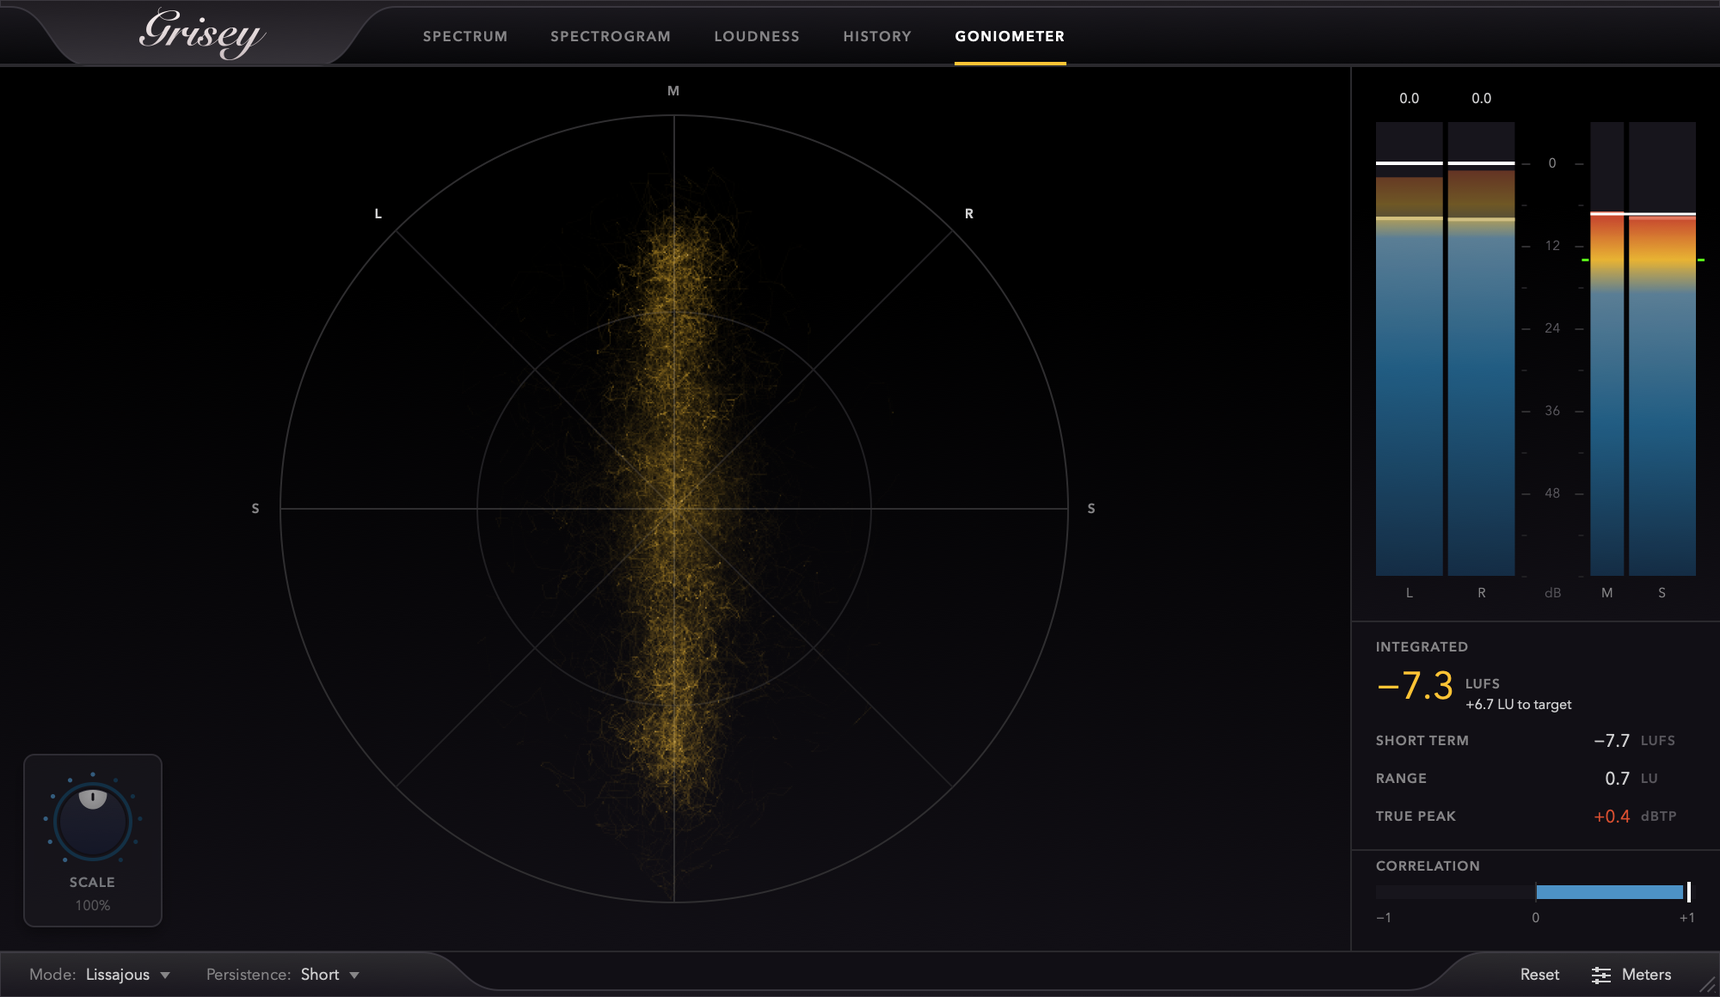
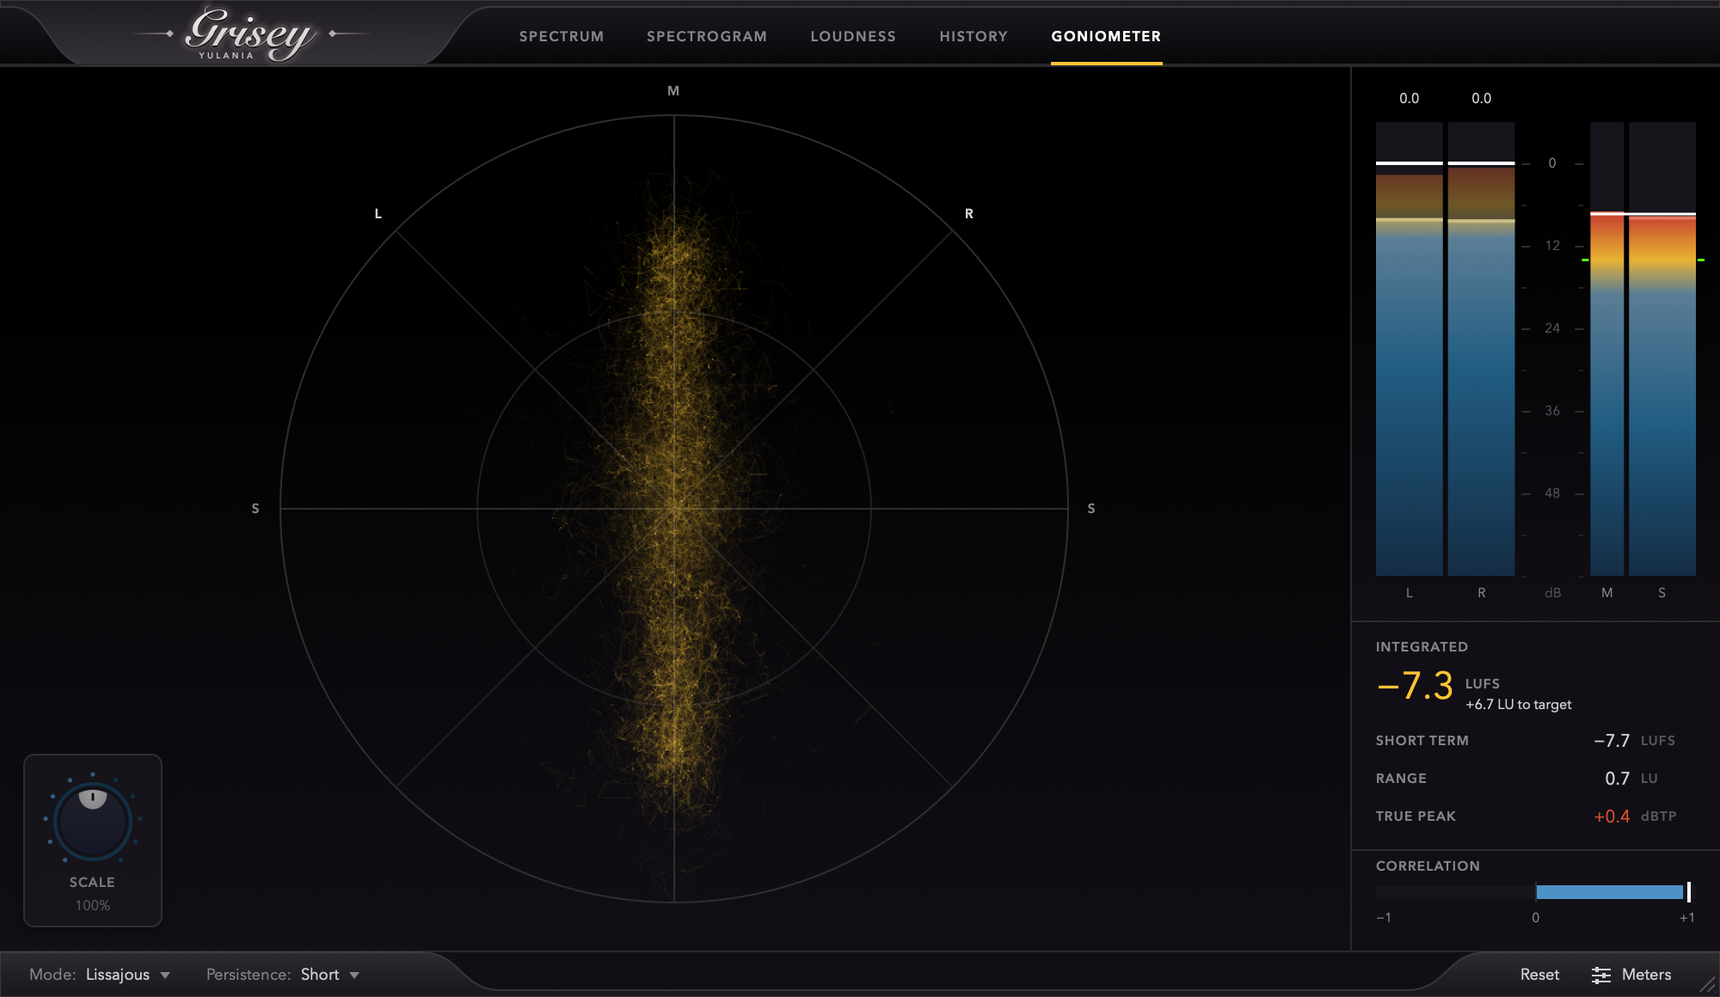
Finish the name as one is on the fallboard of a piano
The name stood alone on a wide, flat tab, and looked empty. It is now set into
the surface, with a soft light around it and a shadow beneath it, has a
flourish on either side, a hairline that fades outward from a small diamond,
and has the maker's name, YULANIA, beneath it in small capitals.

The maker's name does not make the header any taller. The tail of the y comes
below the line that the letters stand on, but only on the right, so there is
room beneath that line on the left. The tool that writes the outline finds the
line and the tail in it, and writes the room into Wordmark.h with the other
measures of the finish, so the plugin and the SVG of the README are drawn from
the same numbers. The tab for the name is wider, and the tabs of the views
still fit at the smallest size of the window.

Changed region(s): [[0.093, 0.0, 0.527, 0.0621], [0.558, 0.031, 0.682, 0.0931], [0.806, 0.2172, 0.868, 0.2483]]

diff --git a/Tests/Snapshot.cpp b/Tests/Snapshot.cpp
@@ -96,32 +96,13 @@ namespace
 
 namespace
 {
-    // Writes the name as outlines, so that it looks the same on a computer that does not have the typeface:
-    // an SVG for the README, and the same outline as a header for the plugin.
-    //   GriseySnapshot docs/images/wordmark.svg wordmark "Snell Roundhand" Bold Source/UI/Wordmark.h
-    bool writeWordmark(const juce::File& svgFile, const juce::String& typeface, const juce::String& style, const juce::File& headerFile)
+    // The data of an SVG path for a JUCE path
+    juce::String toSvgData(const juce::Path& path)
     {
-        if (! juce::Font::findAllTypefaceNames().contains(typeface))
-        {
-            std::cout << "This computer does not have " << typeface << std::endl;
-            return false;
-        }
-
-        // Large, so that two decimal places are plenty
-        const juce::Font font(juce::FontOptions(typeface, 200.f, juce::Font::plain).withStyle(style));
-        juce::GlyphArrangement glyphs;
-        glyphs.addLineOfText(font, "Grisey", 0.f, 0.f);
-
-        juce::Path outline;
-        glyphs.createPath(outline);
-
-        const auto bounds = outline.getBounds();
-        outline.applyTransform(juce::AffineTransform::translation(-bounds.getX(), -bounds.getY()));
-
         auto number = [](float value) { return juce::String(value, 2).trimCharactersAtEnd("0").trimCharactersAtEnd("."); };
 
         juce::String data;
-        juce::Path::Iterator segment(outline);
+        juce::Path::Iterator segment(path);
         while (segment.next())
         {
             switch (segment.elementType)
@@ -135,39 +116,93 @@ namespace
             }
         }
 
-        const auto width = number(bounds.getWidth()), height = number(bounds.getHeight());
+        return data;
+    }
 
-        juce::String svg;
-        // The name is silver, so it stands on a dark plate, or it could not be seen on a white page
-        const float margin = 70.f;
-        const auto plateWidth = number(bounds.getWidth() + 2.f * margin), plateHeight = number(bounds.getHeight() + 2.f * margin);
+    // Writes the name as outlines, so that it looks the same on a computer that does not have the typeface:
+    // the outline and the measures of its finish as a header for the plugin, and the whole of it, finished
+    // as the plugin draws it, as an SVG for the README.
+    //   GriseySnapshot docs/images/wordmark.svg wordmark "Snell Roundhand" Bold Source/UI/Wordmark.h
+    bool writeWordmark(const juce::File& svgFile, const juce::String& typeface, const juce::String& style, const juce::File& headerFile)
+    {
+        if (! juce::Font::findAllTypefaceNames().contains(typeface))
+        {
+            std::cout << "This computer does not have " << typeface << std::endl;
+            return false;
+        }
 
-        svg << "<svg xmlns=\"http://www.w3.org/2000/svg\" viewBox=\"0 0 " << plateWidth << " " << plateHeight << "\" role=\"img\" aria-label=\"Grisey\">\n"
-            << "  <defs>\n"
-            << "    <linearGradient id=\"silver\" x1=\"0\" y1=\"0\" x2=\"0\" y2=\"1\">\n"
-            << "      <stop offset=\"0\" stop-color=\"#fbf3f3\"/>\n"
-            << "      <stop offset=\"1\" stop-color=\"#c9bdc0\"/>\n"
-            << "    </linearGradient>\n"
-            << "    <linearGradient id=\"plate\" x1=\"0\" y1=\"0\" x2=\"0\" y2=\"1\">\n"
-            << "      <stop offset=\"0\" stop-color=\"#201d22\"/>\n"
-            << "      <stop offset=\"1\" stop-color=\"#353238\"/>\n"
-            << "    </linearGradient>\n"
-            << "  </defs>\n"
-            << "  <rect width=\"" << plateWidth << "\" height=\"" << plateHeight << "\" rx=\"44\" fill=\"url(#plate)\"/>\n"
-            << "  <path transform=\"translate(" << number(margin) << " " << number(margin) << ")\" fill=\"url(#silver)\" d=\"" << data << "\"/>\n"
-            << "</svg>\n";
+        // The finish, in points at the height that the name has in the header
+        const juce::String maker("YULANIA");
+        const float heightInHeader = 32.f, ruleGap = 9.f, ruleLength = 24.f, diamondSize = 2.2f;
+        const float makerFontHeight = 6.6f, makerKerning = 0.26f;
 
-        svgFile.replaceWithText(svg, false, false, "\n");
+        // Large, so that two decimal places are plenty
+        const juce::Font font(juce::FontOptions(typeface, 200.f, juce::Font::plain).withStyle(style));
+        juce::GlyphArrangement glyphs;
+        glyphs.addLineOfText(font, "Grisey", 0.f, 0.f);
 
+        juce::Path outline;
+        glyphs.createPath(outline);
+        outline.applyTransform(juce::AffineTransform::translation(-outline.getBounds().getX(), -outline.getBounds().getY()));
+
+        const float width = outline.getBounds().getWidth(), height = outline.getBounds().getHeight();
+
+        // The maker's name goes in the room beneath the line that the letters stand on. That line is the lowest
+        // point of the first half of the name, and the room ends where a tail, like that of the y, comes below it.
+        float baseline = 0.f, tailLeft = width;
+        {
+            juce::PathFlatteningIterator point(outline);
+            std::vector<juce::Point<float>> points;
+            while (point.next())
+                points.push_back({ point.x2, point.y2 });
+
+            for (const auto& p : points)
+                if (p.x < 0.5f * width)
+                    baseline = juce::jmax(baseline, p.y);
+
+            for (const auto& p : points)
+                if (p.y > baseline + 0.05f * height)
+                    tailLeft = juce::jmin(tailLeft, p.x);
+        }
+
+        const float pocketLeft = 0.03f, pocketTop = baseline / height + 0.06f;
+        const float pocketWidth = tailLeft / width - 0.05f, pocketHeight = 1.02f - pocketTop;
+
+        auto number = [](float value) { return juce::String(value, 2).trimCharactersAtEnd("0").trimCharactersAtEnd("."); };
+        const auto data = toSvgData(outline);
+
+        //==============================================================================
         // A string literal has a limit in some compilers, so the outline is written as many short ones
+        // A number as C++ writes a float: with a decimal point, and an f
+        auto literal = [&](float value)
+        {
+            const auto text = number(value);
+            return (text.containsChar('.') ? text : text + ".0") + "f";
+        };
+
         juce::String header;
         header << "#pragma once\n\n"
                << "// The name of the plugin as an outline, so that it is drawn the same on every computer, whether or not\n"
-               << "// it has the typeface. Written by: GriseySnapshot docs/images/wordmark.svg wordmark \"" << typeface << "\" " << style << " Source/UI/Wordmark.h\n"
-               << "// The outline is the data of an SVG path, " << width << " wide and " << height << " high, from the top left.\n"
+               << "// it has the typeface, with the measures of its finish. Written by:\n"
+               << "//   GriseySnapshot docs/images/wordmark.svg wordmark \"" << typeface << "\" " << style << " Source/UI/Wordmark.h\n"
                << "namespace Wordmark\n{\n"
-               << "    inline constexpr float width = " << width << "f;\n"
-               << "    inline constexpr float height = " << height << "f;\n\n"
+               << "    // The outline is the data of an SVG path of this size, from the top left\n"
+               << "    inline constexpr float width = " << literal(width) << ";\n"
+               << "    inline constexpr float height = " << literal(height) << ";\n\n"
+               << "    // The height of the name in the header, and the measures of the flourish on either side of it, in points\n"
+               << "    inline constexpr float heightInHeader = " << literal(heightInHeader) << ";\n"
+               << "    inline constexpr float ruleGap = " << literal(ruleGap) << ";\n"
+               << "    inline constexpr float ruleLength = " << literal(ruleLength) << ";\n"
+               << "    inline constexpr float diamondSize = " << literal(diamondSize) << ";\n\n"
+               << "    // The maker's name, and the room for it beneath the line that the letters stand on, clear of the tail of\n"
+               << "    // the last letter, as proportions of the outline's width and height\n"
+               << "    inline constexpr const char* maker = \"" << maker << "\";\n"
+               << "    inline constexpr float makerFontHeight = " << literal(makerFontHeight) << ";\n"
+               << "    inline constexpr float makerKerning = " << literal(makerKerning) << ";\n"
+               << "    inline constexpr float pocketLeft = " << literal(pocketLeft) << ";\n"
+               << "    inline constexpr float pocketTop = " << literal(pocketTop) << ";\n"
+               << "    inline constexpr float pocketWidth = " << literal(pocketWidth) << ";\n"
+               << "    inline constexpr float pocketHeight = " << literal(pocketHeight) << ";\n\n"
                << "    inline constexpr const char* outline =\n";
 
         for (int start = 0; start < data.length(); start += 110)
@@ -176,7 +211,66 @@ namespace
         header = header.dropLastCharacters(1) + ";\n}\n";
         headerFile.replaceWithText(header, false, false, "\n");
 
-        std::cout << "Saved " << svgFile.getFullPathName() << " and " << headerFile.getFullPathName() << " (" << data.length() << " characters of outline)" << std::endl;
+        //==============================================================================
+        // The SVG is in the units of the outline, so a point of the header is this many of them
+        const float unit = height / heightInHeader;
+        const float marginX = (ruleGap + ruleLength) * unit + 60.f, marginY = 60.f;
+        const float plateWidth = width + 2.f * marginX, plateHeight = height + 2.f * marginY;
+        const float ruleY = marginY + 0.5f * height;
+
+        // The maker's name as an outline too, in the middle of its room
+        juce::GlyphArrangement makerGlyphs;
+        makerGlyphs.addLineOfText(Theme::font(makerFontHeight * unit, true).withExtraKerningFactor(makerKerning), maker, 0.f, 0.f);
+        juce::Path makerOutline;
+        makerGlyphs.createPath(makerOutline);
+
+        const juce::Rectangle<float> pocket(marginX + pocketLeft * width, marginY + pocketTop * height, pocketWidth * width, pocketHeight * height);
+        const auto makerBounds = makerOutline.getBounds();
+        makerOutline.applyTransform(juce::AffineTransform::translation(pocket.getCentreX() - makerBounds.getCentreX(), pocket.getCentreY() - makerBounds.getCentreY()));
+
+        const auto place = "translate(" + number(marginX) + " " + number(marginY) + ")";
+
+        juce::String svg;
+        svg << "<svg xmlns=\"http://www.w3.org/2000/svg\" viewBox=\"0 0 " << number(plateWidth) << " " << number(plateHeight) << "\" role=\"img\" aria-label=\"Grisey, by Yulania\">\n"
+            << "  <defs>\n"
+            << "    <linearGradient id=\"silver\" x1=\"0\" y1=\"0\" x2=\"0\" y2=\"1\"><stop offset=\"0\" stop-color=\"#fbf3f3\"/><stop offset=\"1\" stop-color=\"#c9bdc0\"/></linearGradient>\n"
+            << "    <linearGradient id=\"plate\" x1=\"0\" y1=\"0\" x2=\"0\" y2=\"1\"><stop offset=\"0\" stop-color=\"#201d22\"/><stop offset=\"1\" stop-color=\"#353238\"/></linearGradient>\n";
+
+        for (int side : { -1, 1 })
+        {
+            const float inner = side < 0 ? marginX - ruleGap * unit : marginX + width + ruleGap * unit;
+            const float outer = inner + (float) side * ruleLength * unit;
+            svg << "    <linearGradient id=\"rule" << (side < 0 ? "Left" : "Right") << "\" gradientUnits=\"userSpaceOnUse\" x1=\"" << number(inner) << "\" y1=\"0\" x2=\"" << number(outer) << "\" y2=\"0\">"
+                << "<stop offset=\"0\" stop-color=\"#c9bdc0\" stop-opacity=\"0.7\"/><stop offset=\"1\" stop-color=\"#c9bdc0\" stop-opacity=\"0\"/></linearGradient>\n";
+        }
+
+        svg << "    <filter id=\"glow\" x=\"-10%\" y=\"-30%\" width=\"120%\" height=\"160%\"><feGaussianBlur stdDeviation=\"" << number(2.2f * unit) << "\"/></filter>\n"
+            << "  </defs>\n"
+            << "  <rect width=\"" << number(plateWidth) << "\" height=\"" << number(plateHeight) << "\" rx=\"44\" fill=\"url(#plate)\"/>\n";
+
+        for (int side : { -1, 1 })
+        {
+            const float inner = side < 0 ? marginX - ruleGap * unit : marginX + width + ruleGap * unit;
+            const float outer = inner + (float) side * ruleLength * unit;
+            const float d = diamondSize * unit;
+            svg << "  <rect x=\"" << number(juce::jmin(inner, outer)) << "\" y=\"" << number(ruleY - 0.4f * unit) << "\" width=\"" << number(ruleLength * unit) << "\" height=\"" << number(0.8f * unit)
+                << "\" fill=\"url(#rule" << (side < 0 ? "Left" : "Right") << ")\"/>\n"
+                << "  <polygon points=\"" << number(inner) << "," << number(ruleY - d) << " " << number(inner + d) << "," << number(ruleY) << " " << number(inner) << "," << number(ruleY + d) << " "
+                << number(inner - d) << "," << number(ruleY) << "\" fill=\"#c9bdc0\" fill-opacity=\"0.85\"/>\n";
+        }
+
+        // The soft light around the name is a blurred copy of it, which an SVG can have. The plugin makes do with
+        // two wide, faint strokes, which look the same at the size of a header.
+        svg << "  <path transform=\"" << place << "\" fill=\"#fbf3f3\" fill-opacity=\"0.22\" filter=\"url(#glow)\" d=\"" << data << "\"/>\n"
+            << "  <path transform=\"translate(" << number(marginX) << " " << number(marginY + 1.1f * unit) << ")\" fill=\"#000\" fill-opacity=\"0.65\" d=\"" << data << "\"/>\n"
+            << "  <path transform=\"" << place << "\" fill=\"url(#silver)\" d=\"" << data << "\"/>\n"
+            << "  <path fill=\"#c9bdc0\" fill-opacity=\"0.95\" d=\"" << toSvgData(makerOutline) << "\"/>\n"
+            << "</svg>\n";
+
+        svgFile.replaceWithText(svg, false, false, "\n");
+
+        std::cout << "Saved " << svgFile.getFullPathName() << " and " << headerFile.getFullPathName() << std::endl
+                  << "The letters stand at " << number(baseline / height) << " of the height, and a tail comes below them from " << number(tailLeft / width) << " of the width" << std::endl;
         return true;
     }
 }

diff --git a/Source/PluginEditor.cpp b/Source/PluginEditor.cpp
@@ -137,8 +137,7 @@ namespace
 {
     // The widths of the raised tab that holds the name, and of the shoulders on either side of it
     constexpr float nameTabStart = 6.f;
-    constexpr float nameTabWidth = 132.f;
-    constexpr float wordmarkHeight = 31.f;
+    constexpr float nameTabWidth = 188.f;
     constexpr float shoulderWidth = 46.f;
 
     // The thickness of the raised edge that runs along the rest of the chrome
@@ -186,15 +185,57 @@ void GriseyAudioProcessorEditor::paintHeader(juce::Graphics& g, juce::Rectangle<
     g.setColour(Theme::edge);
     g.fillRect(bounds.withTop(bounds.getBottom() - 1.f));
 
-    // The name of the plugin is an outline, not text, so that it is drawn the same on a computer that
-    // does not have its typeface. It is a silver that is a little lighter at the top than at the bottom.
-    const auto nameArea = juce::Rectangle<float>(tabLeft, bounds.getY(), nameTabWidth, bounds.getHeight()).reduced(4.f, 0.f)
-                              .withSizeKeepingCentre(nameTabWidth - 8.f, wordmarkHeight).translated(0.f, 0.5f);
-    const auto placement = juce::RectanglePlacement(juce::RectanglePlacement::centred)
-                               .getTransformToFit({ 0.f, 0.f, Wordmark::width, Wordmark::height }, nameArea);
+    paintName(g, juce::Rectangle<float>(tabLeft, bounds.getY(), nameTabWidth, bounds.getHeight()));
+}
 
-    g.setGradientFill(juce::ColourGradient(Theme::wordmarkTop, 0.f, nameArea.getY(), Theme::wordmarkBottom, 0.f, nameArea.getBottom(), false));
+void GriseyAudioProcessorEditor::paintName(juce::Graphics& g, juce::Rectangle<float> tab)
+{
+    // The name of the plugin is an outline, not text, so that it is drawn the same on a computer that does
+    // not have its typeface. It is finished as a name is on the fallboard of a piano: in silver, a little
+    // lighter at the top than at the bottom, set into the surface, with a flourish on either side of it and
+    // the maker's name beneath it.
+    const float wordWidth = Wordmark::width * Wordmark::heightInHeader / Wordmark::height;
+    const auto word = tab.withSizeKeepingCentre(wordWidth, Wordmark::heightInHeader).translated(0.f, 0.5f);
+    const auto placement = juce::RectanglePlacement(juce::RectanglePlacement::stretchToFit)
+                               .getTransformToFit({ 0.f, 0.f, Wordmark::width, Wordmark::height }, word);
+
+    // A hairline that fades outward, with a diamond at its inner end, level with the middle of the outline
+    const float ruleY = word.getCentreY();
+
+    for (int side : { -1, 1 })
+    {
+        const float inner = side < 0 ? word.getX() - Wordmark::ruleGap : word.getRight() + Wordmark::ruleGap;
+        const float outer = inner + (float)side * Wordmark::ruleLength;
+
+        g.setGradientFill(juce::ColourGradient(Theme::wordmarkBottom.withAlpha(0.7f), inner, ruleY, Theme::wordmarkBottom.withAlpha(0.f), outer, ruleY, false));
+        g.fillRect(juce::Rectangle<float>(juce::jmin(inner, outer), ruleY - 0.4f, Wordmark::ruleLength, 0.8f));
+
+        juce::Path diamond;
+        const float d = Wordmark::diamondSize;
+        diamond.addQuadrilateral(inner, ruleY - d, inner + d, ruleY, inner, ruleY + d, inner - d, ruleY);
+        g.setColour(Theme::wordmarkBottom.withAlpha(0.85f));
+        g.fillPath(diamond);
+    }
+
+    // What sets the name into the surface: a soft light around it, and a shadow beneath it. The width of
+    // a stroke is measured after the transform.
+    g.setColour(Theme::wordmarkTop.withAlpha(0.05f));
+    g.strokePath(wordmarkOutline, juce::PathStrokeType(7.f, juce::PathStrokeType::curved, juce::PathStrokeType::rounded), placement);
+    g.setColour(Theme::wordmarkTop.withAlpha(0.07f));
+    g.strokePath(wordmarkOutline, juce::PathStrokeType(3.5f, juce::PathStrokeType::curved, juce::PathStrokeType::rounded), placement);
+    g.setColour(juce::Colours::black.withAlpha(0.65f));
+    g.fillPath(wordmarkOutline, placement.translated(0.f, 1.1f));
+
+    g.setGradientFill(juce::ColourGradient(Theme::wordmarkTop, 0.f, word.getY(), Theme::wordmarkBottom, 0.f, word.getBottom(), false));
     g.fillPath(wordmarkOutline, placement);
+
+    // The maker's name is in the room beneath the line that the letters stand on, which the tail of the y
+    // leaves free on the left
+    const auto pocket = juce::Rectangle<float>(word.getX() + Wordmark::pocketLeft * wordWidth, word.getY() + Wordmark::pocketTop * Wordmark::heightInHeader,
+                                               Wordmark::pocketWidth * wordWidth, Wordmark::pocketHeight * Wordmark::heightInHeader);
+    g.setFont(Theme::font(Wordmark::makerFontHeight, true).withExtraKerningFactor(Wordmark::makerKerning));
+    g.setColour(Theme::wordmarkBottom.withAlpha(0.95f));
+    g.drawText(Wordmark::maker, pocket.expanded(6.f, 2.f), juce::Justification::centred);
 }
 
 void GriseyAudioProcessorEditor::paintBottomBar(juce::Graphics& g, juce::Rectangle<int> area)

diff --git a/Source/UI/Wordmark.h b/Source/UI/Wordmark.h
@@ -1,12 +1,29 @@
 #pragma once
 
 // The name of the plugin as an outline, so that it is drawn the same on every computer, whether or not
-// it has the typeface. Written by: GriseySnapshot docs/images/wordmark.svg wordmark "Snell Roundhand" Bold Source/UI/Wordmark.h
-// The outline is the data of an SVG path, 419.03 wide and 175.42 high, from the top left.
+// it has the typeface, with the measures of its finish. Written by:
+//   GriseySnapshot docs/images/wordmark.svg wordmark "Snell Roundhand" Bold Source/UI/Wordmark.h
 namespace Wordmark
 {
+    // The outline is the data of an SVG path of this size, from the top left
     inline constexpr float width = 419.03f;
     inline constexpr float height = 175.42f;
+
+    // The height of the name in the header, and the measures of the flourish on either side of it, in points
+    inline constexpr float heightInHeader = 32.0f;
+    inline constexpr float ruleGap = 9.0f;
+    inline constexpr float ruleLength = 24.0f;
+    inline constexpr float diamondSize = 2.2f;
+
+    // The maker's name, and the room for it beneath the line that the letters stand on, clear of the tail of
+    // the last letter, as proportions of the outline's width and height
+    inline constexpr const char* maker = "YULANIA";
+    inline constexpr float makerFontHeight = 6.6f;
+    inline constexpr float makerKerning = 0.26f;
+    inline constexpr float pocketLeft = 0.03f;
+    inline constexpr float pocketTop = 0.79f;
+    inline constexpr float pocketWidth = 0.58f;
+    inline constexpr float pocketHeight = 0.23f;
 
     inline constexpr const char* outline =
         "M73.59 1.27Q69.15 2.38 66.3 6.34Q63.44 10.31 63.44 14.91Q63.44 16.97 63.68 19.11Q63.92 21.25 64.71 23Q68.99 20"

diff --git a/Source/PluginEditor.h b/Source/PluginEditor.h
@@ -58,6 +58,7 @@ private:
 
     // Draws the header and the bottom bar, whose raised parts meet the recessed ones in S-shaped shoulders
     void paintHeader(juce::Graphics& g, juce::Rectangle<int> area);
+    void paintName(juce::Graphics& g, juce::Rectangle<float> tab);
     void paintBottomBar(juce::Graphics& g, juce::Rectangle<int> area);
 
     // Fills the menu of the settings that the meters of the side column share

diff --git a/README.md b/README.md
@@ -1,4 +1,4 @@
-<h1 align="center"><img src="docs/images/wordmark.svg" alt="Grisey" width="300"></h1>
+<h1 align="center"><img src="docs/images/wordmark.svg" alt="Grisey, by Yulania" width="440"></h1>
 
 Grisey is a free, open-source metering suite for mixing and mastering: level, loudness, true peak, spectrum, spectrogram, stereo image, and phase correlation, all in one resizable window. It aims to be state of the art, the kind of metering you'd expect to pay for. Its measurements follow the published standards (ITU-R BS.1770 and EBU R 128) and are tested against them, and it's free for everyone.
 
@@ -136,6 +136,7 @@ Grisey is free software under the GPLv3 (see [LICENSE.md](LICENSE.md)). It is bu
 
 The name in the header is set in Snell Roundhand, and drawn as an outline (`Source/UI/Wordmark.h`,
 `docs/images/wordmark.svg`), so that it looks the same on a computer that does not have the typeface.
+Yulania, beneath it, is the maker's name.
 
 The look of the interface is inspired by FabFilter's plugins. Grisey is an independent project:
 it is not made, endorsed, or supported by FabFilter, and it uses none of their artwork or code.
